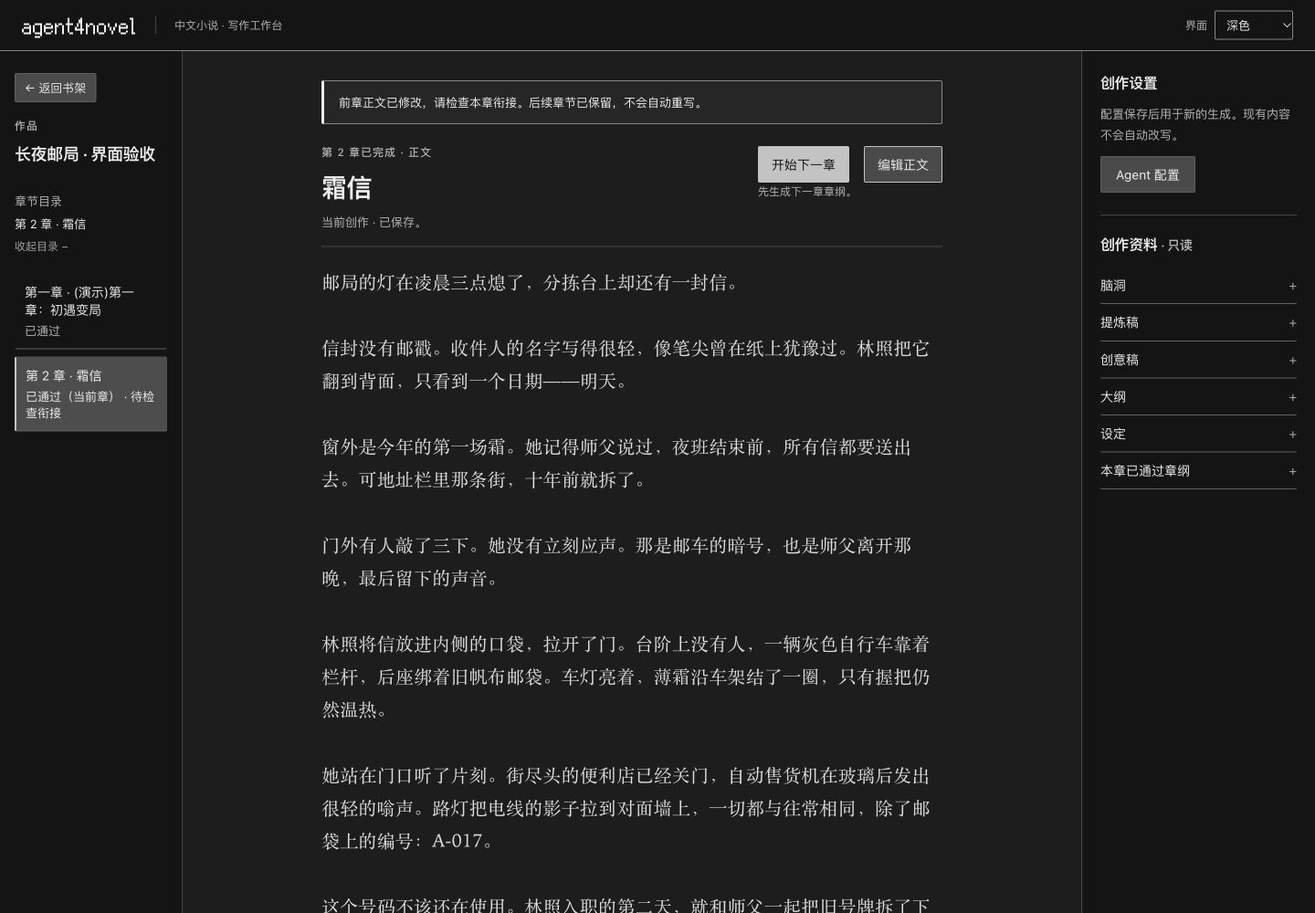
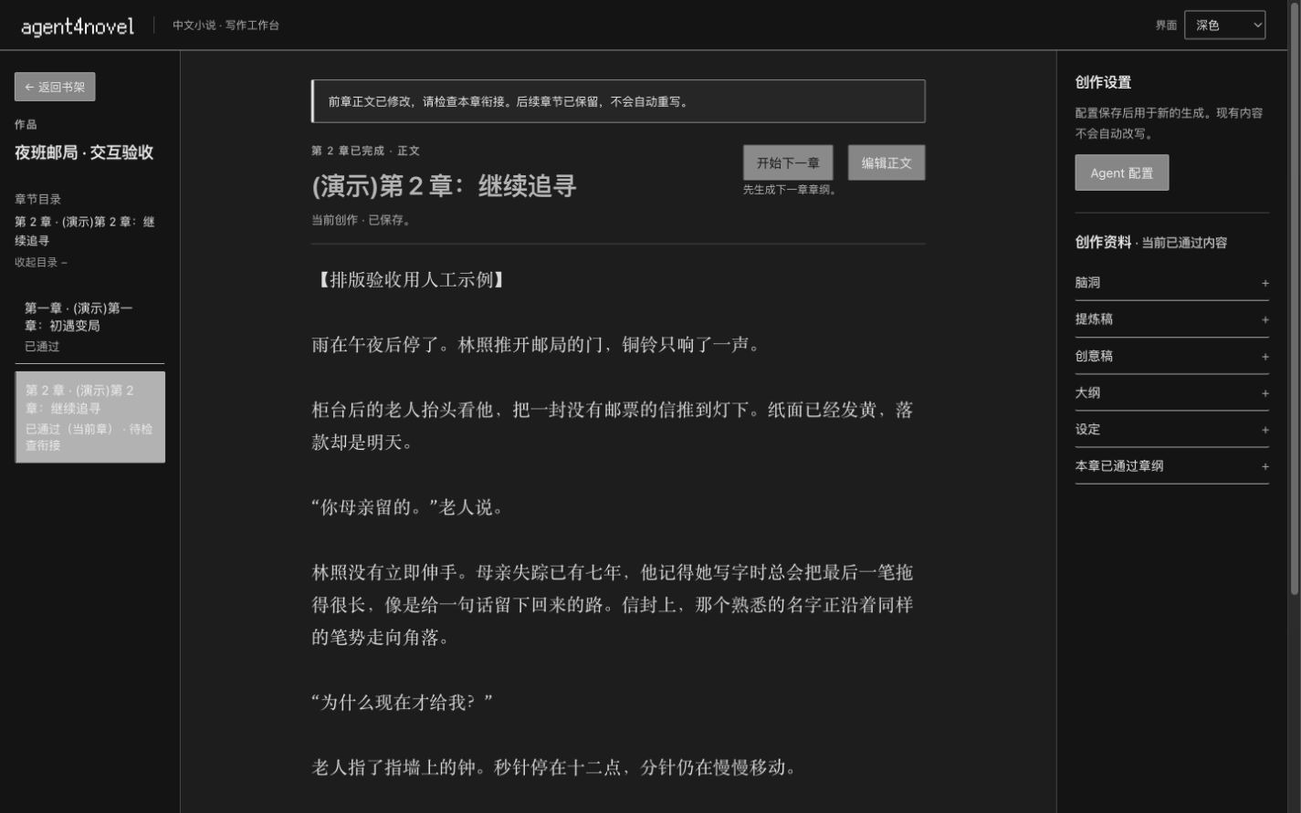
docs: record author workbench delivery and verification

diff --git a/docs/schema.md b/docs/schema.md
@@ -73,7 +73,7 @@ Artifact = {
 
 - `appendArtifact` 追加新版本（version+1），旧版本保留；当前公开读模型只返回各地址的 head，尚无历史回看／回退入口
 - `humanStatus` 语义：`pending` = 待作者把关（关卡中）；`approved` = 已通过
-- 人工保存语义分节点：caption 落库即 `approved`（无关卡）；creative 保存草稿 = 新版本 + `pending`（`saveCreativeDraft`），显式选定方向 = 单方向新版本 + `approved`（`selectCreativeDirection`）；outline（#4）保存草稿 = 新版本 + `pending`（`saveOutlineDraft`，新增弧线/剧情点的 id 由 server 补注入），通过 = 通用 `/approve`；setting（#13）不保存中间草稿，专用完成命令将同 id／version 的内容和状态原子定稿，不追加 V2
+- 人工保存语义分节点：caption 落库即 `approved`（无关卡）；creative 保存草稿 = 新版本 + `pending`（`saveCreativeDraft`），显式选定方向 = 单方向新版本 + `approved`（`selectCreativeDirection`）；outline（#4）保存草稿 = 新版本 + `pending`（`saveOutlineDraft`，新增弧线/剧情点的 id 由 server 补注入），通过使用[大纲可见版本通过](#大纲可见版本通过)的专用条件命令，旧通用 `/approve` 保留当前 head 兼容语义；setting（#13）不保存中间草稿，专用完成命令将同 id／version 的内容和状态原子定稿，不追加 V2
 - Prose 保存追加新 ID／版本并保留匹配基线的 `humanStatus`；pending 草稿可为空，approved 内容必须非空。通过仍是同 ID／版本原子定稿。通过后可编辑是 Prose 的明确例外，不改变 Setting／Beat 通过后只读的语义。
 - 关卡在步骤边界：`gateAfter` 的步骤产出后置 `pending` 等 approve；`gateBefore` 的步骤要求目标产物已 `approved`；`consumes` 的上游产物读最新版且必须 `approved`
 
@@ -116,6 +116,34 @@ Web/CLI 在消费端解析公开响应并核对资源身份。错误体畸形、
 数据库版本使用 `PRAGMA user_version = 3`。初始化在取得写锁后重新读取版本和结构，只对真正无用户对象的 v0 空库建表；已有 v1/v2 必须精确匹配已知表与索引定义，再事务迁移到 v3；v3 同样严格核对结构。未来版本、未知旧结构或不匹配结构使启动失败，不删库、不降级、不悄悄退回内存。当前未提供历史库修复、导入或旧内存实例迁移工具。
 
 连接启用外键、WAL、`synchronous = FULL` 和 5 秒 busy timeout。默认数据目录与备份/恢复操作见 [Wiki 009](./wiki/009-sqlite-persistence.md)。同一数据目录中的已提交作品、产物版本、通过状态和 inputs 可在服务重启后读取；未保存页面草稿、进程内遥测、正在运行的模型调用不在该持久化范围。
+
+## 大纲可见版本通过
+
+#49 的专用命令绑定作者实际读取的大纲，或本页保存成功回执中的新产物身份；确认与重试沿用该基线。可执行定义与响应关联核对见 [`outline-approval.ts`](../packages/contracts/src/outline-approval.ts)。
+
+```ts
+// POST /api/works/:workId/artifacts/outline/approve
+type OutlineApprovalRequest = {
+  expectedArtifactId: string // 长度 1–200，保留原始产物身份
+  expectedHeadVersion: number // 正安全整数
+}
+type OutlineApprovalResponse = Artifact & {
+  kind: 'outline'
+  chapter?: undefined
+  content: OutlineContent
+  humanStatus: 'approved'
+}
+```
+
+请求严格拒绝额外字段，JSON 解析前检查 HTTP body 的 4096 字节上限；CLI 请求文件同为严格 UTF-8 JSON，最多 4096 字节。请求只携带身份与版本；本页大纲若有修改，应先保存，再使用保存回执的 ID／版本通过。
+
+Pipeline 校验显式 ID／版本，并把同一观察到的 ID、version、humanStatus 条件传给 `WorkStore.setStatus`。InMemoryStore 在同步写入中重核；SqliteStore 在同一写事务中重核并更新状态。条件变化拒绝整个操作，不能批准当前新 head。成功只把目标大纲置为 approved，id、version、createdAt、content 和 inputs 保持；不追加版本、不调用模型或推进下一节点。匹配当前已通过目标的重放返回同一产物，也不清除后续生成失败记录。并发条件冲突可以返回 409，不能为绕过冲突换成最新基线。
+
+成功响应是已通过大纲产物本身，没有 workflow、command 或操作流水账包装。`matchesOutlineApprovalResponse` 校验响应形态、作品、原始产物 ID／版本与 approved 状态；只确认目标状态，不证明更早的哪个 HTTP 请求赢得写入。
+
+请求格式非法为 400，作品／大纲不存在为 404，基线冲突为 409，body 超限为 413。意外失败或写入后的响应不可用返回安全 500；传输失败、5xx、畸形响应或身份不匹配均不能证明未落库。保留原请求，显式读取后可核对同一目标是否已通过，不认领历史操作回执或自动重发。
+
+旧 `POST /api/works/:workId/approve` 的 `{ kind: 'outline' }` 仍通过服务器处理时读取的当前 head，返回 `PipelineState`；已有服务端 CAS 继续保留，但该旧请求没有作者可见的 ID／版本条件，不能代替专用命令的保证。CLI `approve <workId> outline` 保留此兼容语义；`approve-outline <workId> --file request.json` 只发送文件中的显式基线一次，不自动 GET、回填版本或重发。此切片未新增 Store 接口、数据库迁移或操作回执表。
 
 ## Setting：#13 已确认设计
 

diff --git a/.claude/skills/agent4novel-drive/SKILL.md b/.claude/skills/agent4novel-drive/SKILL.md
@@ -5,7 +5,7 @@ description: 用命令行驱动 agent4novel 创作链路、独立运行节点和
 
 # 驱动 agent4novel
 
-本项目的创作链路用 CLI(`./apps/cli/bin/a4n`)驱动,**不要手搓 curl**。只有 `select`／`save-outline` 自动回填 `expectedHeadVersion`；Setting、Beat、Prose和start-chapter的专用写命令使用请求文件中的显式基线，不替换成最新head。正常结果的stdout是纯JSON，进度与错误走stderr。HTTP/传输错误会exit≠0，但`advance`/`start-chapter`即使HTTP200也可能返回`kind: "failed"`，必须同时检查JSON outcome。
+本项目的创作链路用 CLI(`./apps/cli/bin/a4n`)驱动,**不要手搓 curl**。只有 `select`／`save-outline` 自动回填 `expectedHeadVersion`；`approve-outline`、Setting、Beat、Prose和start-chapter的专用写命令使用请求文件中的显式基线，不替换成最新head。正常结果的stdout是纯JSON，进度与错误走stderr。HTTP/传输错误会exit≠0，但`advance`/`start-chapter`即使HTTP200也可能返回`kind: "failed"`，必须同时检查JSON outcome。
 
 模型与 provider 配置的唯一 HOW 是 [`docs/wiki/016-model-runtime-provider-config.md`](../../../docs/wiki/016-model-runtime-provider-config.md)；源码持久化与恢复见 [Wiki 009](../../../docs/wiki/009-sqlite-persistence.md)，本机容器、卷恢复与CI见 [Wiki 033](../../../docs/wiki/033-local-docker-ci.md)。本 skill 只保留运行时操作,不要在其他入口复制配置规则。
 
@@ -76,7 +76,8 @@ Beat和Prose都要求正安全整数chapter。Beat的upstream为`{outline, setti
 ./apps/cli/bin/a4n start-chapter <workId> --file chapter-request.json # 显式开始指定下一章
 ./apps/cli/bin/a4n select <workId> [directionId] # 选定创意方向(缺省取第一个)
 ./apps/cli/bin/a4n save-outline <workId> --file draft.json
-./apps/cli/bin/a4n approve <workId> outline      # 通过产物
+./apps/cli/bin/a4n approve-outline <workId> --file outline-approval.json # 原始可见 ID／版本
+./apps/cli/bin/a4n approve <workId> outline      # 旧兼容：通过服务器当前 head
 ./apps/cli/bin/a4n get <workId> --kind setting   # 读取 pending 基线及版本
 ./apps/cli/bin/a4n approve-setting <workId> --file request.json
 ./apps/cli/bin/a4n get <workId> --kind beat --chapter <chapter>
@@ -92,6 +93,8 @@ Beat和Prose都要求正安全整数chapter。Beat的upstream为`{outline, setti
 ```
 
 `pnpm -s cli ...` 等价(必须带`-s`，否则pnpm横幅污染stdout)。server地址用`--url`或`A4N_BASE_URL`覆盖；`--timeout-ms`或CLI进程环境变量`A4N_CLI_TIMEOUT_MS`覆盖全部请求等待上限。未覆盖时普通请求300s、advance1820s、start-chapter920s、Beat/Prose通过及Prose保存30s、Beat/Prose重写920s、恢复GET10s；期限包含响应body读取。
+
+通过大纲优先使用 `approve-outline`：从作者实际确认的大纲，或成功保存回执取得 `id/version`，写入 `{"expectedArtifactId":"<大纲ID>","expectedHeadVersion":1}` 后显式提交文件。命令只 POST 一次，不自动 GET、回填新基线或重发；失败／未知时保留文件，先手动 `get <workId> --kind outline` 核对原目标，再决定后续动作。匹配已通过目标只说明其状态，不追认原请求。旧 `approve <workId> outline` 保持服务器当前 head 语义，不提供作者可见版本保证。完整边界见[大纲可见版本通过](../../../docs/schema.md#大纲可见版本通过)，输入与副作用用 `approve-outline --help` 核对。
 
 `approve-setting` 的文件必须是完整 `{ "content": <整份设定>, "expectedHeadVersion": <读取时版本> }`。已有项保留 ID，新增项省略 ID；通过后同 id/version 只读，没有独立保存草稿命令。命令最多自动回读一次、不自动重写；失败保留输入文件，新进程见到 approved 只报告现状，不追认旧请求。恢复规则统一见 [Wiki 013](../../../docs/wiki/013-setting-generation-review.md#提交结果确认)。
 
@@ -121,6 +124,8 @@ Prose文件沿用章号/id/version基线，content为`{text}`；save额外必须
 - 日志响应包含 `telemetry`、`commands`、`window`；LLM 与命令各保留全局最近 1000 条，过滤不会扩大窗口。`processInstanceId` 随进程重启变化；截断和空结果都不是未执行证明。
 
 ## 前端页面
+
+创意保存/选定、大纲保存及可见版本通过的Web写等待30秒，核对作品读取10秒。超时只终止本页等待，不证明服务端未落库；保留原提交和本页内容，显式核对后再决定载入。外部版本变化或迟到读回不丢本页脏稿，载入服务器材料需确认放弃。
 
 web 是 React SPA:`curl http://localhost:5173/` 只能拿到 HTML 壳 + 脚本标签,**看不到渲染后内容**。要内容一律走 API(CLI 就是封装);只有需要确认页面结构/样式资源时才读 HTML。`/api/*` 由 vite 代理到 8787。
 

diff --git a/docs/handoff.md b/docs/handoff.md
@@ -1,6 +1,6 @@
 # Handoff — agent4novel 会话接力快照
 
-> 用途：context compaction / 新会话接力。最后更新：2026-10-03。#1 及必需子票均已合并关闭，本机 MVP 已发布；整体验证见 [Wiki001](./wiki/001-mvp-acceptance.md)。复审修复 #43/PR44 与黑白灰界面 #35/PR45 已交付。当前推进 [Wiki047](./wiki/047-reading-layout-refinement.md) 的阅读排版与组件比例，候选已落地，实际界面与最终审核证据从本票继续；发布终态以 GitHub 回读为准。#46 存储初始化竞争独立跟踪，#28/#29 及长篇质量评估保持后置。
+> 用途：context compaction / 新会话接力。最后更新：2026-10-06。本机 MVP 已发布；#35/PR45 与 #47/PR48 已关闭/合并（本轮 GitHub 回读）。当前实施 [Wiki049](./wiki/049-author-workbench.md)：稳定作品框架、共用材料呈现、入口与编辑保护、K01 大纲可见版本。完整候选的发布/CI/合并/关闭以 #49 完成评论和 live GitHub 为准。#46 初始化竞争、#28/#29 与长篇质量评估保持后置。
 > 分工：词汇表看 CONTEXT.md；数据模型看 docs/schema.md；每票工程上下文看 docs/wiki/NNN-*.md；完成闸门看 docs/agents/ticket-completion-checklist.md；本文件只管「项目现在到哪了、下一步是什么、哪些决策不能丢」。消费或更新 Wiki 时使用 `.claude/skills/agent4novel-wiki/SKILL.md`。
 
 ## Primary Request and Intent
@@ -15,6 +15,8 @@
 2026-10-03 用户要求对外输出遵循其个人 Work Wiki 的中性精确风：事实直陈，一句表达一件事，首次解释必要术语，明确已验证与未验证范围；删除情绪、修辞和没有具体信息的过渡语。个人 Work Wiki 的输出要求与 #29 的书级设定库属于不同用途。本次应用和清点结果见 [复审记录](./wiki/001-mvp-acceptance.md#2026-10-03-清点与复审)。
 
 ## 当前里程碑与验证边界
+
+本轮 #49 的范围与工程证据从 [Wiki049](./wiki/049-author-workbench.md) 进入。计划 review 双轴 PASS 后用户授权开发；W0–W4 加 K01 按公开 UI/HTTP/Store/CLI 接缝实施。六种材料的保存差异、显式续章、原文/UTF-16、配置和坏例保护继续有效。新大纲通过绑定作者所见 ID/版本；旧通用通过命令仍读取服务端当前 head。创建幂等、详细书架摘要、日期、任意历史全文和浏览器历史协议未新增。
 
 **本机 MVP 已发布，整体验证与边界从 [Wiki001](./wiki/001-mvp-acceptance.md) 进入。** 2026-10-03 回读 #1 及 #6/#19/#9/#33/#7/#8 均已关闭，对应 PR 均已合并；[PR40](https://github.com/12bitsD/agent4novel/pull/40) 对应源提交的 CI 与 [main CI](https://github.com/12bitsD/agent4novel/actions/runs/36727036119) 均成功。文档 #41/PR42、修复 #43/PR44 与视觉 #35/PR45 也已关闭/合并；#47 从 main `e04b2be8f8d54a6c0b68a6f96395b9010185246f` 开始。#35 的 [main CI](https://github.com/12bitsD/agent4novel/actions/runs/37100590655/attempts/2) 最终成功；其首轮 SQLite 并发初始化失败由 #46 独立跟踪，重试通过不表示该竞争已修复。关闭记录证明交付状态，不能消除未来新发现。
 

diff --git a/docs/wiki/004-outline-arcs-segments.md b/docs/wiki/004-outline-arcs-segments.md
@@ -2,15 +2,15 @@
 wiki_id: "004"
 ticket: 4
 ticket_state: done
-context_state: current
+context_state: mixed
 summary: "全书大纲采用弧线与剧情点两层结构，并在独立人工关卡中保存、审阅和通过。"
 topics: ["outline", "story-arcs", "story-segments", "workflow-gates", "outline-review"]
 code_paths: ["packages/contracts/src/outline.ts", "packages/contracts/src/artifacts.ts", "apps/server/src/pipeline/pipeline.ts", "apps/server/src/steps/outline-io.ts", "apps/server/src/steps/outline-step.ts", "apps/server/src/routes/works.ts", "apps/server/src/start.ts", "apps/server/test/pipeline.test.ts", "apps/web/src/outline-review.ts", "apps/web/src/pages/OutlineReview.tsx"]
 symbols: ["outlineContentSchema", "outlineDraftSchema", "createOutlineStep", "PipelineDefinitionEntry", "workflowOf", "normalizeOutlineIds", "ReviewState", "advance-in-progress", "version-conflict"]
 inherits: ["011"]
-changed_by: ["016", "013", "005", "041"]
+changed_by: ["016","013","005","041","049"]
 read_when: ["change-outline-schema", "change-outline-generation", "debug-outline-gate", "change-outline-editor"]
-last_context_reviewed: "2026-10-03"
+last_context_reviewed: "2026-10-06"
 ---
 
 # 004 — 大纲生成：弧线 + 剧情点两层结构
@@ -25,6 +25,7 @@ last_context_reviewed: "2026-10-03"
   [Wiki 005](./005-beat-generation-review.md) 已接入下游第一章章纲，消费完整已通过的大纲和设定；不改变本页的大纲契约。
 - **代码入口**：[outline contract](../../packages/contracts/src/outline.ts)、[pipeline](../../apps/server/src/pipeline/pipeline.ts)、[server assembly](../../apps/server/src/start.ts)、[works routes](../../apps/server/src/routes/works.ts)、[review state](../../apps/web/src/outline-review.ts)。
 
+- **当前后继入口**：[Wiki049](./049-author-workbench.md) 接入稳定作品壳、材料页头与恢复保护；本页原始意图、参数依据和冻结审核证据保留。
 ## 设计目的
 
 大纲层只回答“全书冲突如何推进与收束”，不提前决定章节数量。这样作者能在一屏级别审阅全书张力，下游也能按剧情点逐段规划章纲。
@@ -124,6 +125,14 @@ OutlineReview 采用纯状态映射加 React 视图：
 - outline fan-out 或多方案生成。
 
 ## 上下文演进
+
+### 2026-10-06 — 作者编稿台接续
+
+- **触发证据**：用户认可交互方案并授权核查后直接开发，实施票 [#49](https://github.com/12bitsD/agent4novel/issues/49)。
+- **原假设**：现有视觉、阅读参数和关卡承担各自页面，跨材料体验尚未统一。
+- **决定**：显示层由稳定作品壳和材料框架组织；原业务控制器仍拥有命令和权限。大纲新增作者可见版本的条件通过，旧接口兼容。
+- **影响**：当前框架与 K01 入口转向 Wiki049，字体、阅读参数和既有关卡保留。
+- **上下文处理**：preserve 本页原目的、Human 决定、rationale 与冻结审核正文；replace 当前后继路由，后续工程从049读取。
 
 ### 2026-10-03 — 修正当前工作流导航
 

diff --git a/docs/wiki/035-frontend-design.md b/docs/wiki/035-frontend-design.md
@@ -8,9 +8,9 @@ topics: ["frontend-design", "monochrome", "typography", "accessibility"]
 code_paths: ["apps/web/src/styles.css", "apps/web/src/ui.ts", "apps/web/src/ThemeControl.tsx", "apps/web/src/App.tsx", "apps/web/src/pages/**"]
 symbols: ["App", "ThemeControl", "Bookcase", "Entry", "WorkSession", "AuthorConfigPanel", "ConfirmDialog"]
 inherits: ["006", "007", "043"]
-changed_by: ["047"]
+changed_by: ["047","049"]
 read_when: ["redesign-frontend", "review-typography", "test-theme", "review-mobile-layout"]
-last_context_reviewed: "2026-10-03"
+last_context_reviewed: "2026-10-06"
 ---
 
 # 035 — 黑白灰写作工作台
@@ -24,6 +24,7 @@ last_context_reviewed: "2026-10-03"
 - **后续变化**：[Wiki047](./047-reading-layout-refinement.md) 细化阅读列、字号比例、短章高度和中屏布局；本页 20px／1.85／36em 与 700px 目录初始断点属于 #35 交付历史。BC 方向、主题机制、字体家族及业务保护继续适用。
 - **代码入口**：styles.css 与 ui.ts 管视觉；App 管页面入口，WorkSession 管按章隔离与配置保护。
 
+- **当前后继入口**：[Wiki049](./049-author-workbench.md) 接入稳定作品壳、材料页头与恢复保护；本页原始意图、参数依据和冻结审核证据保留。
 ## 设计目的
 
 把现有彩色点缀与分散样式统一为黑白灰写作界面。短标签可以承担像素风格，中文长篇正文以阅读体验为先。不得靠颜色或动画单独表达保存、错误、禁用或未知状态。
@@ -117,6 +118,14 @@ last_context_reviewed: "2026-10-03"
 不改变后端协议、作品数据、模型/Prompt、关卡规则、正文自动保存、配置显式保存、原请求恢复、通过后编辑和章节隔离。不给未实现的检索/Wiki/统计编造入口，不自动生成或重写作品，不操作用户原服务、密钥或数据。新增导航不能绕过脏编辑/未知请求保护。
 
 ## 上下文演进
+
+### 2026-10-06 — 作者编稿台接续
+
+- **触发证据**：用户认可交互方案并授权核查后直接开发，实施票 [#49](https://github.com/12bitsD/agent4novel/issues/49)。
+- **原假设**：现有视觉、阅读参数和关卡承担各自页面，跨材料体验尚未统一。
+- **决定**：显示层由稳定作品壳和材料框架组织；原业务控制器仍拥有命令和权限。大纲新增作者可见版本的条件通过，旧接口兼容。
+- **影响**：当前框架与 K01 入口转向 Wiki049，字体、阅读参数和既有关卡保留。
+- **上下文处理**：preserve 本页原目的、Human 决定、rationale 与冻结审核正文；replace 当前后继路由，后续工程从049读取。
 
 ### 2026-10-03 — #47 细化阅读比例与中屏布局
 

diff --git a/docs/wiki/047-reading-layout-refinement.md b/docs/wiki/047-reading-layout-refinement.md
@@ -1,16 +1,16 @@
 ---
 wiki_id: "047"
 ticket: 47
-ticket_state: active
-context_state: current
+ticket_state: done
+context_state: mixed
 summary: "收敛正文阅读列、组件比例、短章自然高度与中屏布局"
 topics: ["frontend-design", "typography", "responsive-layout", "reading-flow"]
 code_paths: ["apps/web/src/styles.css", "apps/web/src/ui.ts", "apps/web/src/pages/Workspace.tsx", "apps/web/src/pages/Workspace.reading-flow.test.tsx"]
 symbols: ["WorkSession", "directoryExpanded", "prose-reading", "prose-page", "btnPrimary", "btnSecondary"]
 inherits: ["035"]
-changed_by: []
+changed_by: ["049"]
 read_when: ["refine-reading-layout", "review-medium-width", "review-component-density"]
-last_context_reviewed: "2026-10-03"
+last_context_reviewed: "2026-10-06"
 ---
 
 # 047 — 阅读排版与组件比例
@@ -24,6 +24,7 @@ last_context_reviewed: "2026-10-03"
 - **后续变化**：系统字体跨设备、200%缩放与用户间距覆写仍需单独验证；终止发布状态以GitHub回读为准。
 - **代码入口**：styles.css/ui.ts管理视觉，WorkSession只调整挂载时的目录断点；正文纯文本和状态机沿用原实现。
 
+- **当前后继入口**：[Wiki049](./049-author-workbench.md) 接入稳定作品壳、材料页头与恢复保护；本页原始意图、参数依据和冻结审核证据保留。
 ## 设计目的
 
 让长文保持连贯阅读，短文按实际内容占用空间；正文、标题与状态共用阅读轴，辅助信息和控件形成一致层级。
@@ -89,6 +90,14 @@ last_context_reviewed: "2026-10-03"
 不引入新阅读模式、字号持久化、字体下载/CDN、正文清洗、生成职责变化、后端协议或#46存储修复。状态表达仍使用文字与边框，不靠淡化隐藏异常。遵循用户明确黑白灰要求，保留对暖色建议的既有豁免。
 
 ## 上下文演进
+
+### 2026-10-06 — 作者编稿台接续
+
+- **触发证据**：用户认可交互方案并授权核查后直接开发，实施票 [#49](https://github.com/12bitsD/agent4novel/issues/49)。
+- **原假设**：现有视觉、阅读参数和关卡承担各自页面，跨材料体验尚未统一。
+- **决定**：显示层由稳定作品壳和材料框架组织；原业务控制器仍拥有命令和权限。大纲新增作者可见版本的条件通过，旧接口兼容。
+- **影响**：当前框架与 K01 入口转向 Wiki049，字体、阅读参数和既有关卡保留。
+- **上下文处理**：preserve 本页原目的、Human 决定、rationale 与冻结审核正文；replace 当前后继路由，后续工程从049读取。
 
 ### 2026-10-03 — 从独立参数转为一致的阅读比例
 

diff --git a/README.en.md b/README.en.md
@@ -91,7 +91,7 @@ API keys are supplied at runtime, and Git ignores `.env.local`. Real-model calls
 
 ## How it works
 
-The system first prepares a story brief (Caption) from your input, then follows this workflow. **Approve** means accepting content as the basis for subsequent generation.
+The workbench keeps the work and chapter location on the left, the current material in the center, and references and configuration on the right. The system first prepares a story brief (Caption) from your input, then follows this workflow. **Approve** means accepting content as the basis for subsequent generation.
 
 | Stage | Generated content | Author action |
 | --- | --- | --- |
@@ -101,7 +101,11 @@ The system first prepares a story brief (Caption) from your input, then follows 
 | Chapter plan | This chapter's goal, content order and ending | Edit or regenerate, then approve |
 | Prose | Chapter text based on its plan and setting | Edit or rewrite the chapter, then approve |
 
-Prose approval completes the chapter. “Start next chapter” in the prose header generates the next chapter plan. Use the chapter directory to revisit earlier chapters. Approved prose opens in reading mode; select “编辑” (Edit) to change it, with autosave preserving approval. Editing an earlier chapter flags existing later chapters for a continuity check while keeping their text and status.
+Creative edits use “保存全部方向” (Save all directions); outline edits use “保存草稿” (Save draft). Setting and chapter-plan edits stay on the page until approval submits their full content. Prose edits autosave. Saving and approving remain separate actions; approved directions, outlines, settings and chapter plans are read-only.
+
+Prose approval completes the chapter. “Start next chapter” in the prose header generates the next chapter plan. Use the chapter directory to revisit earlier chapters. Approved prose opens in reading mode; select “编辑正文” (Edit prose) to change it, with autosave preserving approval. Editing an earlier chapter flags existing later chapters for a continuity check while keeping their text and status.
+
+If a save or approval result is unconfirmed, keep the page and inspect the server content first. Unsaved local edits also remain when another client updates or approves content. This inspection shows current state. Loading server content discards local edits and requires confirmation. An unconfirmed creation retains its input and never automatically creates another work.
 
 ### Reading and appearance
 

diff --git a/README.md b/README.md
@@ -93,7 +93,7 @@ API key 只在运行时传入，`.env.local` 被 Git 忽略。真实模型会把
 
 ## 创作流程
 
-系统先将输入整理为提炼稿，再进入以下流程。「通过」表示接受当前内容，作为后续生成依据。
+作品进入编稿台后，左侧保留作品和章节位置，中间显示正在审阅的材料，右侧提供资料与配置。系统先将输入整理为提炼稿，再进入以下流程。「通过」表示接受当前内容，作为后续生成依据。
 
 | 阶段 | 生成内容 | 作者操作 |
 | --- | --- | --- |
@@ -103,7 +103,11 @@ API key 只在运行时传入，`.env.local` 被 Git 忽略。真实模型会把
 | 章纲 | 本章目标、内容顺序和结尾 | 编辑或重新生成，再通过 |
 | 正文 | 根据章纲和设定写出的章节文字 | 编辑或整章重写，再通过 |
 
-正文通过后，本章完成；点击正文页头的「开始下一章」生成下一章章纲。章节目录可回看旧章，已通过正文默认阅读，点击「编辑」后修改并自动保存，仍保持已通过。修改旧章后，已有后续章节保留文字与状态，并提示「待检查衔接」。
+创意稿修改后用「保存全部方向」保存，大纲用「保存草稿」。设定和章纲的修改保留在本页，通过时提交全文；正文编辑会自动保存。保存与通过是两个动作，已通过的创意稿、大纲、设定和章纲只读。
+
+正文通过后，本章完成；点击正文页头的「开始下一章」生成下一章章纲。章节目录可回看旧章，已通过正文默认阅读，点击「编辑正文」后修改并自动保存，仍保持已通过。修改旧章后，已有后续章节保留文字与状态，并提示「待检查衔接」。
+
+如果保存或通过的结果尚未确认，先保留页面并核对服务器内容。别处更新或通过内容时，本页未保存的修改也会保留。核对只显示当前状态；载入服务器内容会放弃本页修改，需要明确确认。创作入口遇到未确认的创建结果时保留输入，不自动再次创建。
 
 ### 阅读与界面
 

diff --git a/docs/plans/author-workbench-renovation.md b/docs/plans/author-workbench-renovation.md
@@ -2,6 +2,8 @@
 
 核查日期：2026-10-06（Asia/Shanghai）。代码基线：main `5ba9fe38062120231d42b8b64a8fc4b5e3cd1e23`；方案分支：`codex/author-workbench-design`。
 
+本文记录立项前核查；以下“本轮”指当时的方案交付。后续首期实施与验证由 [Wiki049](../wiki/049-author-workbench.md) 持有，原计划和未验证增强保留。
+
 本文承接[交互研究与路线比较](../research/author-workbench-interaction-plan.md)，是本轮详细改造清单的入口。用户认可方案方向并要求防遗漏核查；本轮交付方案，没有修改产品代码、开实施票、提交或发布。代码、测试定义、共享契约和公开路由已核查；未来验收场景没有写成已通过。
 
 ## 1. 目标、范围与读取方式
